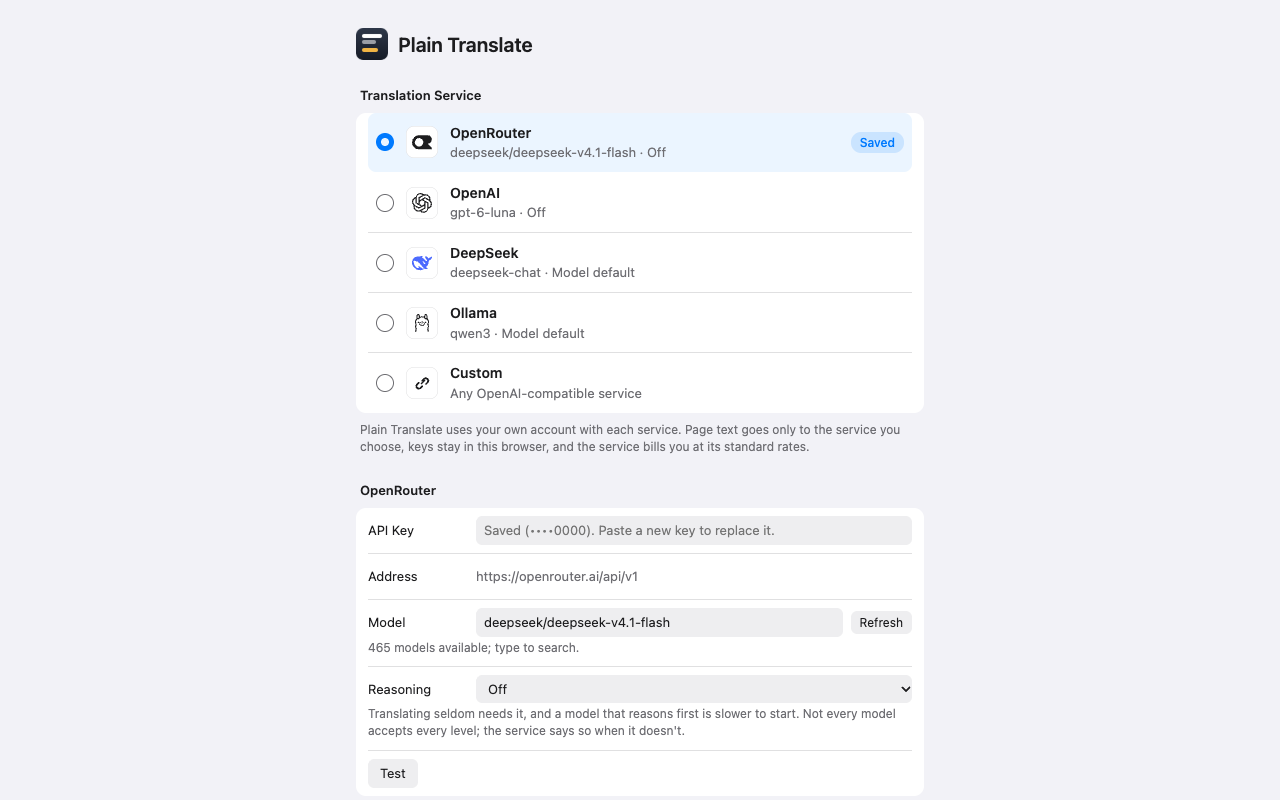
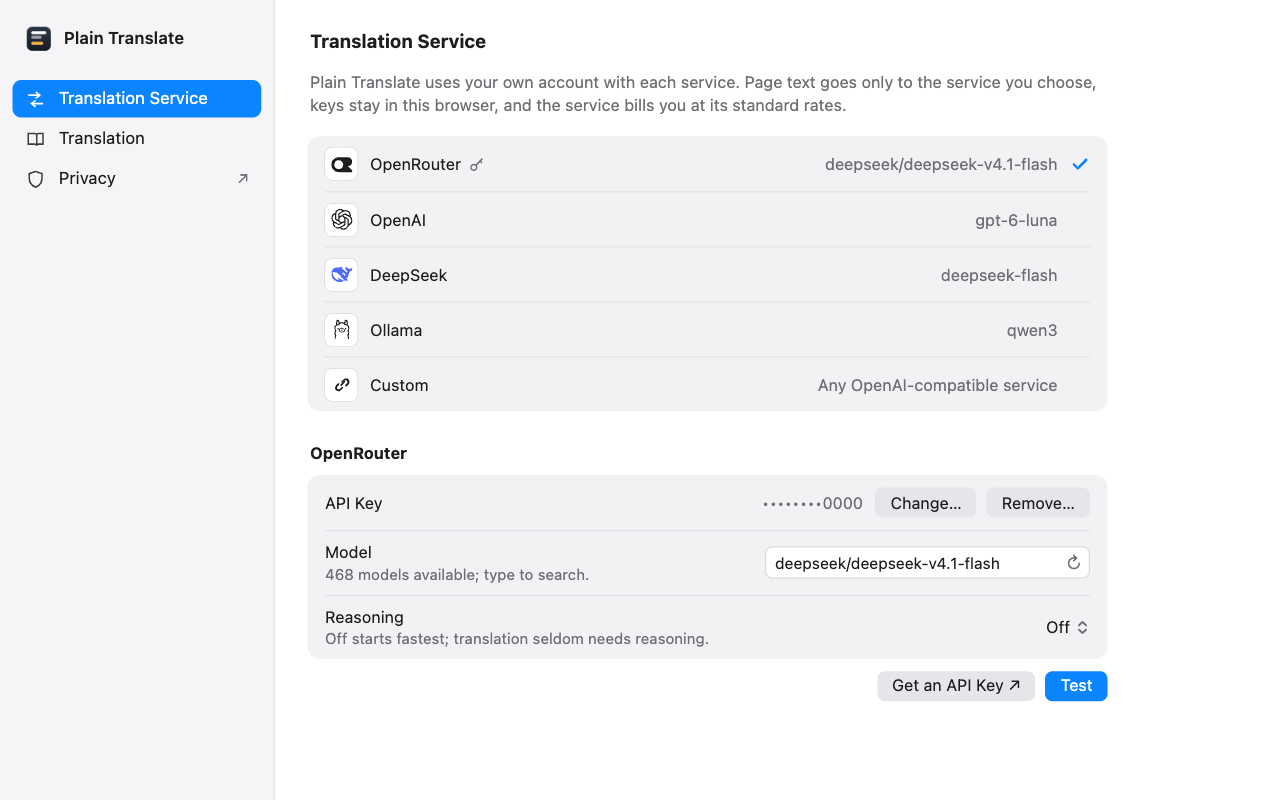
Point install at the Chrome Web Store; retake the store's settings screenshots for 1.0.2

diff --git a/store/listing.md b/store/listing.md
@@ -25,8 +25,9 @@ keep the `simple-translate` slug.
 - **Screenshots**: 1280×800, in `store/screenshots/`; `en-*` for the English
   listing (Chinese and Japanese pages translated into English), `zh-*` for the
   Chinese listing (English pages translated into Chinese). Taken 2026-10-16 with
-  DeepSeek V4.1 Flash on OpenRouter; the key shown on the settings page is a
-  placeholder.
+  DeepSeek V4.1 Flash on OpenRouter; `*-3-settings.png` retaken 2026-10-21 from
+  the 1.0.2 settings page (1024×640 at 1.25×). The key shown on the settings
+  page is a placeholder.
 - **Small promo tile**: 440×280, `store/promo-440x280.png` (English),
   `store/promo-440x280.zh.png` (Chinese); sources in `store/source/`
 - **Homepage URL**: https://max1874.com/simple-translate/
